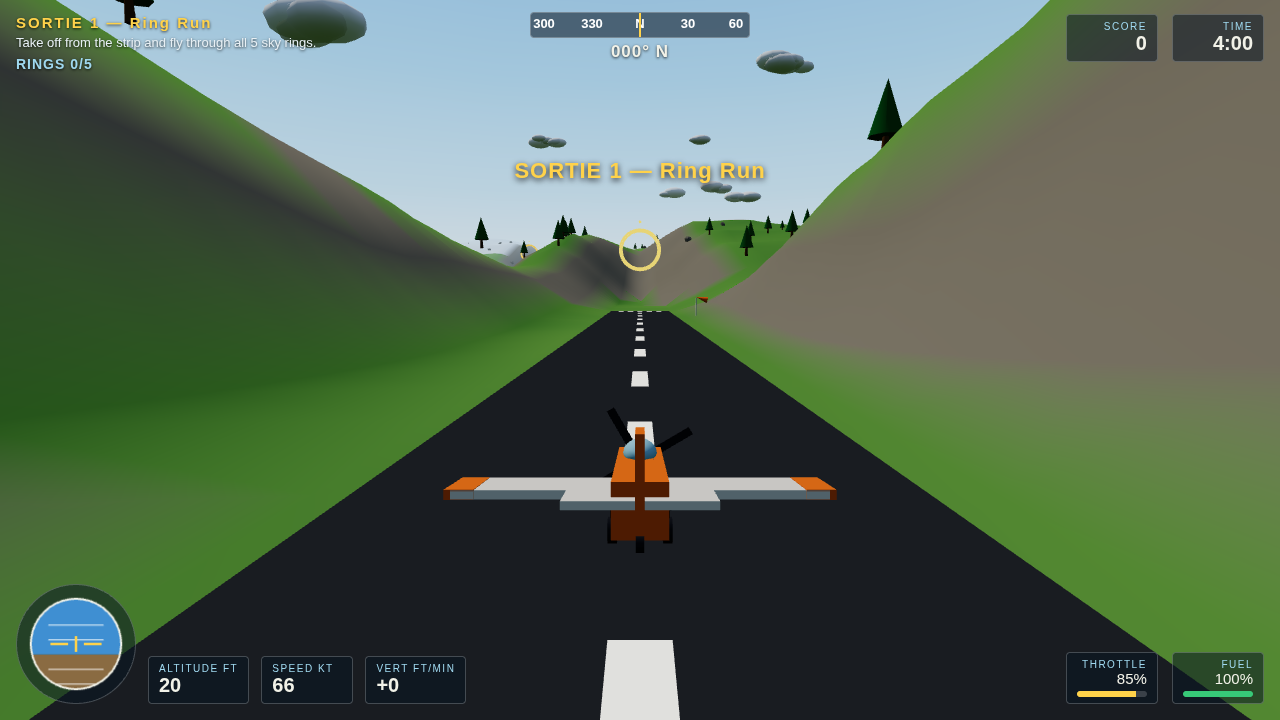
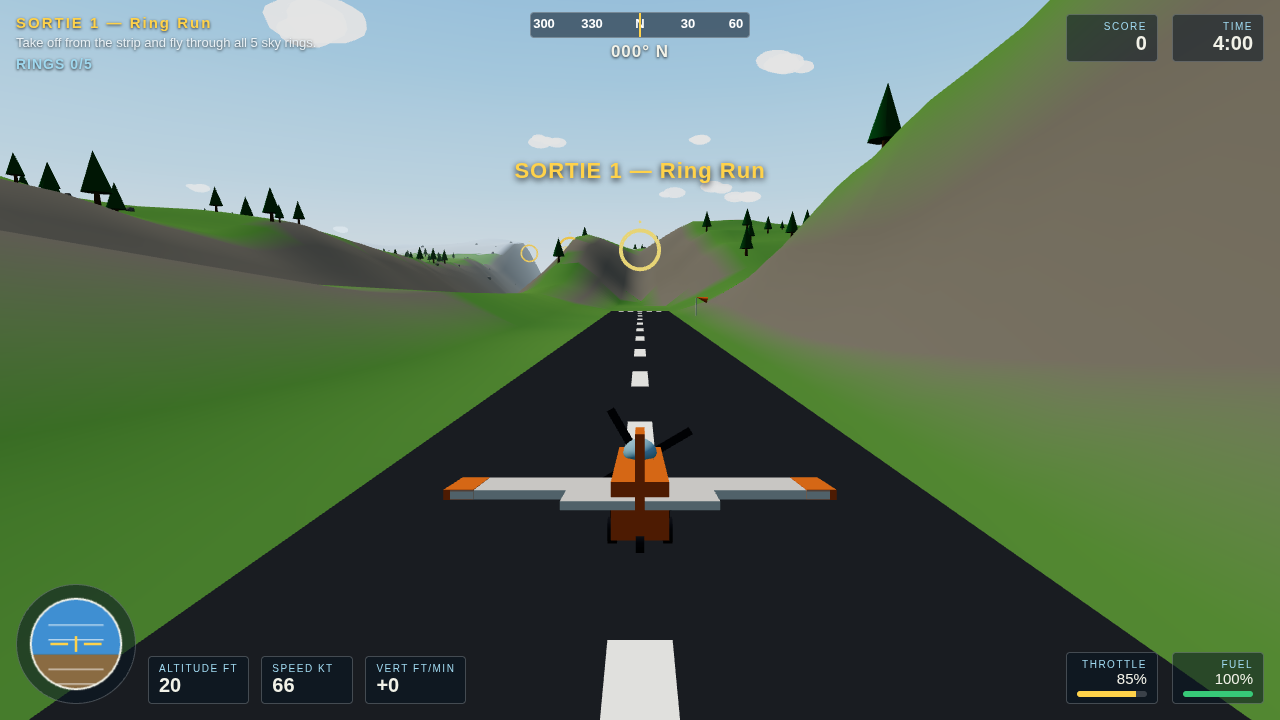
Revision 1: plant trees on the mesh, winding river, white clouds, clear runway

diff --git a/game/js/terrain.js b/game/js/terrain.js
@@ -16,11 +16,17 @@ export function terrainHeightAt(x, z) {
   let h = fbm2D(nx + 3.7, nz + 9.1, WORLD_SEED) * WORLD.maxHeight;
   const edge = Math.max(Math.abs(x), Math.abs(z)) / half;
   h += Math.max(0, edge - 0.55) * 260;
-  // River carve: a smooth valley along a gently winding line.
+  // River carve: a flat-bottomed valley along a gently winding line. The
+  // channel floor stays at the waterline for the first ~14 m, then rises
+  // linearly to the banks, so the river reads as a narrow channel with
+  // visible banks instead of a dry V-valley whose water sits below its bed.
+  // Linear banks, not a smoothstep: the smoothstep's mid-slope topped 0.55
+  // and turned the whole valley rock-brown; linear keeps the banks grass.
   const riverCentre = WORLD.riverX + Math.sin(z * 0.0016) * 90;
   const riverDist = Math.abs(x - riverCentre);
-  const carve = Math.max(0, 1 - riverDist / (WORLD.riverWidth * 2.2));
-  h = lerp(h, 2, carve * carve * 0.92);
+  const carveU = clamp((riverDist - 14) / (WORLD.riverWidth * 2.2 - 14), 0, 1);
+  const carve = 1 - carveU;
+  h = lerp(h, 1.0, carve * 0.98);
   // Lake bowl at the north end of the river.
   const lakeDist = Math.hypot(x - WORLD.riverX, z - WORLD.lakeZ);
   const lakeCarve = Math.max(0, 1 - lakeDist / WORLD.lakeRadius);
@@ -38,6 +44,40 @@ export function terrainHeightAt(x, z) {
   const corridor = corridorX * corridorZ;
   h = lerp(h, RUNWAY.height, clamp(corridor * 2.2, 0, 1));
   return h;
+}
+
+// --- Sampling the rendered mesh -------------------------------------------
+// The analytic terrainHeightAt and the mesh disagree by up to a few metres
+// on steep ground (the mesh is a 20 m grid, the formula is smooth), which is
+// what left trees floating. Vegetation must be planted on the mesh, not the
+// formula, so sample the mesh's own triangles: the PlaneGeometry is a
+// regular grid, each quad split on the (i,j)-(i+1,j+1) diagonal, and the
+// heights come straight from its displaced vertices.
+let meshGrid = null; // { heights, step, half, n }
+
+export function sampleMeshHeight(mesh) {
+  const pos = mesh.geometry.attributes.position;
+  const n = Math.round(Math.sqrt(pos.count));
+  const heights = new Float32Array(n * n);
+  for (let k = 0; k < n * n; k += 1) heights[k] = pos.getY(k);
+  meshGrid = { heights, step: WORLD.size / (n - 1), half: WORLD.half, n };
+}
+
+export function meshHeightAt(x, z) {
+  const g = meshGrid;
+  if (!g) return terrainHeightAt(x, z);
+  const fx = clamp((x + g.half) / g.step, 0, g.n - 1.001);
+  const fz = clamp((z + g.half) / g.step, 0, g.n - 1.001);
+  const i = Math.floor(fx);
+  const j = Math.floor(fz);
+  const u = fx - i;
+  const v = fz - j;
+  const h00 = g.heights[j * g.n + i];
+  const h10 = g.heights[j * g.n + i + 1];
+  const h11 = g.heights[(j + 1) * g.n + i + 1];
+  const h01 = g.heights[(j + 1) * g.n + i];
+  if (u + v <= 1) return h00 + u * (h10 - h00) + v * (h01 - h00);
+  return h11 + (1 - u) * (h01 - h11) + (1 - v) * (h10 - h11);
 }
 
 // The terrain is one big PlaneGeometry, displaced by terrainHeightAt and
@@ -82,19 +122,24 @@ export function buildTerrainMesh(scene) {
   return mesh;
 }
 
-// Water: a flat blue plane for the river strip and a disc for the lake, both
-// slightly transparent so the sand bed shows through at the edges.
+// Water: a ribbon of short flat segments following the winding river
+// carve, plus a disc for the lake, both slightly transparent so the sandy
+// bed shows through at the edges. The ribbon follows the carve's centre
+// line, so the water stays in the valley instead of a straight strip the
+// river wanders away from.
 export function buildWater(scene) {
   const waterMat = new THREE.MeshLambertMaterial({
-    color: 0x2f7fc4, transparent: true, opacity: 0.82,
+    color: 0x2568a8, transparent: true, opacity: 0.9,
   });
-  const river = new THREE.Mesh(
-    new THREE.PlaneGeometry(WORLD.riverWidth * 1.7, WORLD.size),
-    waterMat,
-  );
-  river.rotation.x = -Math.PI / 2;
-  river.position.set(WORLD.riverX, 3.2, 0);
-  scene.add(river);
+  const segLen = 44;
+  const segGeo = new THREE.PlaneGeometry(110, segLen);
+  for (let z = -WORLD.half; z <= WORLD.half; z += segLen * 0.9) {
+    const riverCentre = WORLD.riverX + Math.sin(z * 0.0016) * 90;
+    const seg = new THREE.Mesh(segGeo, waterMat);
+    seg.rotation.x = -Math.PI / 2;
+    seg.position.set(riverCentre, 3.1, z);
+    scene.add(seg);
+  }
   const lake = new THREE.Mesh(
     new THREE.CircleGeometry(WORLD.lakeRadius * 0.94, 40),
     waterMat,
@@ -153,8 +198,9 @@ export function buildRunway(scene) {
 // Instanced meshes keep the draw calls low: one cone+cylinder pair per tree
 // shape, one dodecahedron per rock, all placed by the seeded stream.
 
-export function buildVegetation(scene) {
+export function buildVegetation(scene, terrainMesh) {
   const rng = mulberry32(WORLD_SEED + 501);
+  if (terrainMesh) sampleMeshHeight(terrainMesh);
   // Keep the sightlines to the sky rings clear: no tree within 45 m of a
   // ring centre on either sortie's path, or a ring hides behind a pine.
   const ringClearings = [...ringPathForSortie(1), ...ringPathForSortie(2)];
@@ -169,7 +215,7 @@ export function buildVegetation(scene) {
   const dummy = new THREE.Object3D();
   let placed = 0;
   let guard = 0;
-  while (placed < treeCount && guard < 4000) {
+  while (placed < treeCount && guard < 20000) {
     guard += 1;
     const x = (rng() * 2 - 1) * (WORLD.half - 60);
     const z = (rng() * 2 - 1) * (WORLD.half - 60);
@@ -179,14 +225,24 @@ export function buildVegetation(scene) {
     if (Math.abs(x - RUNWAY.x) < 70 && Math.abs(z - RUNWAY.z) < 1050) continue;
     if (nearRing(x, z)) continue;
     const riverCentre = WORLD.riverX + Math.sin(z * 0.0016) * 90;
-    if (Math.abs(x - riverCentre) < WORLD.riverWidth) continue;
+    if (Math.abs(x - riverCentre) < WORLD.riverWidth * 1.6) continue;
+    // Plant on the rendered mesh, not the formula, and reject ground too
+    // steep for a trunk to sit on: on a steep bank one side of the trunk
+    // floats while the other buries. Sink the base a little so any small
+    // mismatch buries the trunk instead of floating it.
+    const mh = meshHeightAt(x, z);
+    const slope = Math.max(
+      Math.abs(meshHeightAt(x + 6, z) - meshHeightAt(x - 6, z)) / 12,
+      Math.abs(meshHeightAt(x, z + 6) - meshHeightAt(x, z - 6)) / 12,
+    );
+    if (slope > 0.55) continue;
     const s = 0.7 + rng() * 0.9;
-    dummy.position.set(x, h + 2.5 * s, z);
+    dummy.position.set(x, mh - 0.7 * s + 2.5 * s, z);
     dummy.scale.setScalar(s);
     dummy.rotation.y = rng() * Math.PI * 2;
     dummy.updateMatrix();
     trunks.setMatrixAt(placed, dummy.matrix);
-    dummy.position.y = h + (5 + 6.5) * s;
+    dummy.position.y = mh - 0.7 * s + (5 + 6.5) * s;
     dummy.updateMatrix();
     crowns.setMatrixAt(placed, dummy.matrix);
     placed += 1;
@@ -196,34 +252,45 @@ export function buildVegetation(scene) {
   scene.add(trunks);
   scene.add(crowns);
 
-  // Rocks: grey dodecahedrons, mostly on the high slopes.
+  // Rocks: grey dodecahedrons, mostly on the high slopes. Planted on the
+  // mesh and sunk well in, so they read as half-buried boulders, never as
+  // stones floating above a slope.
   const rockCount = 160;
   const rockGeo = new THREE.DodecahedronGeometry(3.2, 0);
   const rockMat = new THREE.MeshLambertMaterial({ color: 0x7d7a72 });
   const rocks = new THREE.InstancedMesh(rockGeo, rockMat, rockCount);
-  for (let i = 0; i < rockCount; i += 1) {
+  let rocksPlaced = 0;
+  let rockGuard = 0;
+  while (rocksPlaced < rockCount && rockGuard < 4000) {
+    rockGuard += 1;
     const x = (rng() * 2 - 1) * (WORLD.half - 80);
     const z = (rng() * 2 - 1) * (WORLD.half - 80);
-    const h = terrainHeightAt(x, z);
+    // Keep the runway and its approach corridor clear: a boulder on the
+    // strip reads as debris on the runway.
+    if (Math.abs(x - RUNWAY.x) < 70 && Math.abs(z - RUNWAY.z) < 1050) continue;
+    const h = meshHeightAt(x, z);
     const s = 0.5 + rng() * 1.6;
-    dummy.position.set(x, h + 1.2 * s, z);
+    dummy.position.set(x, h + 0.4 * s, z);
     dummy.scale.set(s, s * 0.7, s);
     dummy.rotation.set(rng() * 3, rng() * 3, rng() * 3);
     dummy.updateMatrix();
-    rocks.setMatrixAt(i, dummy.matrix);
+    rocks.setMatrixAt(rocksPlaced, dummy.matrix);
+    rocksPlaced += 1;
   }
+  rocks.count = rocksPlaced;
   scene.add(rocks);
-  return { trees: placed, rocks: rockCount };
+  return { trees: placed, rocks: rocksPlaced };
 }
 
 // --- Clouds ------------------------------------------------------------------
 // Puffy low-poly clouds: clusters of white flattened spheres, drifting slowly
-// east. Positions are seeded; the drift is a pure function of elapsed time.
-
+// east. Unlit white, so they read as bright clouds against the sky instead
+// of dark smudges: Lambert shading left their shaded sides almost black.
+// Positions are seeded; the drift is a pure function of elapsed time.
 export function buildClouds(scene) {
   const rng = mulberry32(WORLD_SEED + 909);
   const group = new THREE.Group();
-  const mat = new THREE.MeshLambertMaterial({ color: 0xffffff, transparent: true, opacity: 0.88 });
+  const mat = new THREE.MeshBasicMaterial({ color: 0xffffff, transparent: true, opacity: 0.92 });
   const geo = new THREE.SphereGeometry(1, 10, 8);
   const clouds = [];
   for (let i = 0; i < 26; i += 1) {

diff --git a/game/js/main.js b/game/js/main.js
@@ -9,7 +9,7 @@ import { RUNWAY, clamp } from './config.js';
 import { FlightAudio } from './audio.js';
 import {
   buildTerrainMesh, buildWater, buildRunway, buildVegetation,
-  buildClouds, updateClouds, terrainHeightAt,
+  buildClouds, updateClouds, terrainHeightAt, meshHeightAt,
 } from './terrain.js';
 import { buildAircraft, Aircraft } from './aircraft.js';
 import { Controls } from './controls.js';
@@ -31,10 +31,10 @@ const camera = new THREE.PerspectiveCamera(62, window.innerWidth / window.innerH
 buildFog(scene);
 buildSky(scene);
 buildLights(scene);
-buildTerrainMesh(scene);
+const terrainMesh = buildTerrainMesh(scene);
 buildWater(scene);
 buildRunway(scene);
-buildVegetation(scene);
+const vegetation = buildVegetation(scene, terrainMesh);
 const clouds = buildClouds(scene);
 
 const aircraftMesh = buildAircraft();
@@ -265,7 +265,10 @@ function stageShot(mode) {
     chase.snap(aircraft);
   } else if (mode === 'low') {
     startSortie(2);
-    aircraft.position.set(-150, 52, -300);
+    // Low over the river in the wide southern valley (the channel at z=500
+    // is x≈-95), looking north down the run: the winding river and its
+    // banks ahead, the first canyon ring dead ahead, green hills both sides.
+    aircraft.position.set(-140, 55, 500);
     aircraft.heading = 0;
     aircraft.pitch = 0.02;
     aircraft.speed = 72;
@@ -311,6 +314,9 @@ window.__skyward = {
   audio,
   controls,
   terrainHeightAt,
+  meshHeightAt,
+  terrainMesh,
+  vegetation,
   startGame,
   startSortie,
   togglePause,
